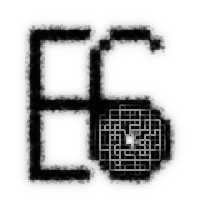
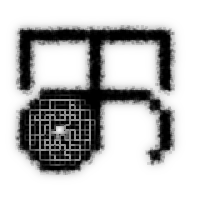
home page refined

diff --git a/index.css b/index.css
@@ -1,84 +1,136 @@
 * {
     font-family: helvetica;
 }
-nav {
-    text-align: center;
-    position: fixed;
-    background-position: absolute;
-    clear: both;
-    display: block;
-    margin: 10px 10px 10px 10px;
-}
-#logo {
-    border-bottom: 25px;
-    padding: -20px 0px 0px -20px;
-    position: absolute;
-    transform: rotate(-45deg);
-    left: 40px;
-}
-h1 {
-    margin: 0 auto;
-    text-align: center;
-    position: relative;
-    top: 215px;
-    width: 150px;
-    padding-left: 58px;
-}
-h1:hover {
-    color: white;
-    border-color: black;
-}
-#counter {
-    background-color: #303030;
-    border-radius: 30px;
-    margin: -15px 20px 0px 40px;
-    display: block;
-    position: absolute;
-    top: 265px;
-    padding: 4px 40px 0px 40px;
-}
+
+
+/*----- index.html content -----*/
+
+
 main {
     background-color: #909090;
     width: 55%;
-    top: 0;
     height: 75%;
-    clear: none;
     display: block;
     margin: 0 auto;
-    float: center;
-    position: relative;
-    background-attachment: scroll;
     text-align: center;
 }
 h2 {
-    padding-top: 25px;
-    
+    padding-top: 25px;    
 }
 h3 {
     margin-top: -15px;
     color: #303030;
 }
 iframe {
-    width: 75%;
-    height: 95%;
+    width: 85%;
+    height: 100%;
+    padding-bottom: 20px;
 }
-aside {
-    float: right;
+
+
+/*----- Left-hand column -----*/
+
+
+nav {
+    text-align: center;
     position: fixed;
-    background-position: fixed;
     display: block;
-    top: 20px;
+}
+#logo {
+    background: radial-gradient(circle, #ffffff, #a0a0a0, #606060, #606060);
+    border-bottom: 25px;
+    padding: -20px 0px 0px -20px;
+    position: fixed;
+    transform: rotate(-45deg);
+    left: 60px;
+}
+#logo:hover {
+    -webkit-animation:spin 2s cubic-bezier(.75,0,.25,1) infinite;
+}
+    @-webkit-keyframes spin { 100% { -webkit-transform: rotate(-405deg); } }
+#counter {
+    background-color: #303030;
+    border-radius: 30px;
+    margin: -25px 20px 0px 50px;
+    display: block;
+    position: fixed;
+    top: 265px;
+    padding: 4px 40px 0px 40px;
+}
+#footer {
+    position: fixed;
+    bottom: -5px;
+    font-size: 10pt;
+    margin-left: 10px;
+}
+
+
+/*----- Navigation Menu -----*/
+
+
+.tab:first-of-type {
+    margin-top: 300px;
+}
+.tab {
+    background-color: #202020;
+    color: #909090;
+    display: block;
+    margin: 10px 32px 10px -32px;
+    width: 288px;
+    height: 50px;
+    border-radius: 200px;
+    padding: 15px 30px 0px 0px;
+    font-size: 20pt;
+    text-decoration: none;
+    text-indent: 25px;
+}
+.tab:hover {
+    background-color: #B0B0B0;
+    border-radius: 10px;
+    color: black;
+}
+
+
+/*----- Right-hand column -----*/
+
+
+aside {
+    position: fixed;
+    display: block;
+    bottom: 0;
+    top: 0;
     right: 17px;
     border-left: 10%;
-    height: 100%;
+    height: 75%;
+    margin-top: 193px;
+}
+#ad {
+    display: inline;
+    position: fixed;
+    float: right;
+    top: 0;
+    text-decoration: none;
+}
+h5 {
+    color: white;
+    display: inline;
+    position: relative;
+    top: 20px;
+    right: -75px;
+}
+#ad>img {
+    padding-top: 20px;
+    border-top: 0px;
+    height: 135px;
+    width: 275px;
+    border-radius: 15px;
+    background-color: white;
+}
+#ad>img:hover{
+    background-color: black;
 }
 #rwindow {
     border-radius: 15px;
     border-left: 10px;
-}
-#footer {
-    position: fixed;
-    bottom: 0;
-    float: center;
-    font-size: 10pt;
+    padding-bottom: 0px;
 }

diff --git a/index.html b/index.html
@@ -6,28 +6,43 @@
     
     <title>East Six</title>
   </head>
-
+  
   <body bgcolor="#606060">
     
     <nav>
-        <img id="logo" src="content/eastsix.png">
-        <h1>East Six</h1>
-        <p id="counter"><a href="#" title="Visits"><img src="http://counter6.statcounterfree.com/private/freecounterstat.php?c=97c9b1d54f4e0efac156a6213845cc93" border="0" title="Visits" alt="Visits"></a></p>
-
-        <p id="footer">Copyright 2014 © East Six. All rights reserved.</p>
+      <img id="logo" src="content/eastsix.png">
+      <p id="counter"><a href="#" title="Visits"><img src="http://counter6.statcounterfree.com/private/freecounterstat.php?c=97c9b1d54f4e0efac156a6213845cc93" border="0" title="Visits" alt="Visits"></a></p>
+    
+      <a class="tab" href="index.html">Home</a>
+      <a class="tab" href="mix.html">~The Mix Doctor~</a>
+      <a class="tab" href="events.html">Events</a>
+      <a class="tab" href="about.html">About</a>
+      <a class="tab" href="message.html">Message Us</a>
+      
+      <p id="footer">Copyright &copy 2014 East Six. All rights reserved.</p>
     </nav>
 
     <main>
-        <h2>Public Service Announcement</h2>
-        <h3>Posted November 4th, 2014</h3>
-        <iframe src="content/Response1.pdf" hname="notice" marginheight="0" frameborder="0" onLoad="autoResize('notice')";></iframe>
-        <p>
+      <h2>Public Service Announcement</h2>
+      <h3>Posted November 4th, 2014</h3>
+      <iframe src="content/Response1.pdf" hname="notice" id="notice" marginheight="0" frameborder="0" onLoad="autoResize('notice')";></iframe>
     </main>
 
     <aside>
+        <a id="ad" href="mix.html"><h5>~The Mix Doctor~</h5><img src="content/drinks.png" /></a>
         <a id="rwindow" class="twitter-timeline" href="https://twitter.com/EastSixNews" data-widget-id="515763083847811072">_______________________________</a>
-        <script>
-        !function(d,s,id){var js,fjs=d.getElementsByTagName(s)[0],p=/^http:/.test(d.location)?'http':'https'; if(!d.getElementById(id)){js=d.createElement(s);js.id=id;js.src=p+"://platform.twitter.com/widgets.js";fjs.parentNode.insertBefore(js,fjs);}}(document,"script","twitter-wjs");
+
+           <script>
+            !function(d,s,id) {
+            var js, fjs = d.getElementsByTagName(s)[0], p = /^http:/.test(d.location)?'http':'https';
+
+            if (!d.getElementById(id)) {
+              js = d.createElement(s);
+              js.id = id;
+              js.src = p + "://platform.twitter.com/widgets.js";
+              fjs.parentNode.insertBefore(js,fjs);
+            }}
+            (document,"script","twitter-wjs");
         </script>
     </aside>
 
